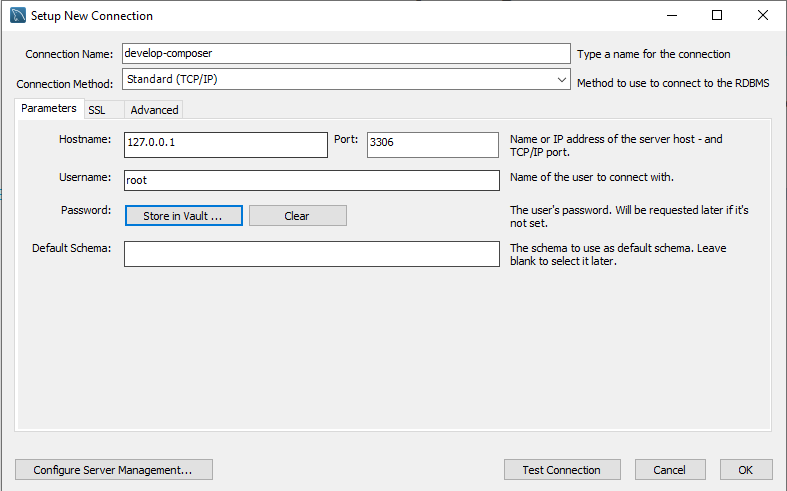
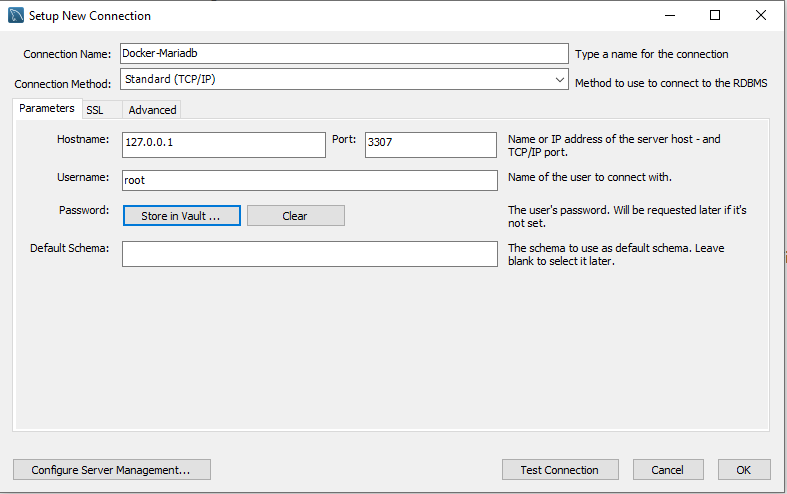
Fix Host

diff --git a/README.md b/README.md
@@ -9,9 +9,9 @@
 | Servicio         | Version | Puertos   |
 |------------------|---------|-----------|
 | PHP 8.2 + Apache | 8.2     | 8000:80   |
-| PHP 7.4 + Apache | 7.4     | 8001:80   |
+| PHP 8.1 + Apache | 8.1     | 8001:80   |
 | Composer         | 2       | -         |
-| MariaDB          | Latest  | 3306:3306 |
+| MariaDB          | Latest  | 3307:3306 |
 | PhpMyAdmin       | Latest  | 8002:80   |
 
 
@@ -63,6 +63,11 @@ ports:
   - "8000:80"
 ```
 
+Usamos las redes para prevenir conexiones exteriores a nuestro servidor de base de datos.
+
+- dwcsLan (Para red interna, Base de datos, PHP8.2, PHP7.4, Composer, PHPMyAdmin)
+- dwcs (Para red puente externa)
+
 
 Lo que quiere decir que de manera interna el **PHP 8.2** funciona con el puerto 80 (él por defecto para Apache) pero para conectarnos de manera externa a la web deberemos usar el 8000, por ejemplo ``` http://localhost:8000 ```. 
 
@@ -70,13 +75,21 @@ Lo que quiere decir que de manera interna el **PHP 8.2** funciona con el puerto 
 
 En nuestra aplicación usaremos de manera frecuente conexiones a nuestra base de datos **MariaDB**, así que es importante explicar como manejar estas conexiones en nuestro entorno **Docker**.
 
-A diferencia de Xamp, en Docker no nos podemos conectar a la base de datos con **PHP** mediante el hostname **localhost**, ya que Docker tiene un servidor DNS interno distinto. Lo recomendable es usar el conector interno de Docker, usando el hostname **host.docker.internal**.
+Debe conincidir el nombre del contenedor de **MariaDb**, con el conector que usaremos en php, aloja en el **./config/config.ini**.
+
+<img src='README.assets/image15.png' style='width: 300px;'/>
+
+> Imagen del contenedor de MariaDB
+
+<img src='README.assets/image16.png' style='width: 300px;'/>
+
+A diferencia de Xamp, en Docker no nos podemos conectar a la base de datos con **PHP** mediante el hostname **localhost**, ya que Docker tiene un servidor DNS interno distinto. Lo recomendable es usar el conector interno de Docker, usando el hostname de nuestra base de datos: **dwcs-mariadb**.
 
 > Archivo config.ini
 
 ```ini
 [database]
-hostname = "host.docker.internal"
+hostname = "dwcs-mariadb"
 puerto = "3306"
 usuario = "root"
 contrasena = "root"
@@ -92,7 +105,7 @@ Pero de manera externa, sí podremos conectarnos mediante **localhost** por ejem
 
 > MySQL Workbench -> [Descargar](https://dev.mysql.com/downloads/workbench/)
 
-En resumen, para conexiones internas entre los contenedores usar el puerto interno y el hostname **host.docker.internal**, para conexiones externas usar el puerto que expone docker y el hostname **localhost**.
+En resumen, para conexiones internas entre los contenedores usar el puerto interno y el hostname de la base de datos **dwcs-mariadb**, para conexiones externas usar el puerto que expone docker y el hostname **localhost**.
 
 #### Volúmenes
 
